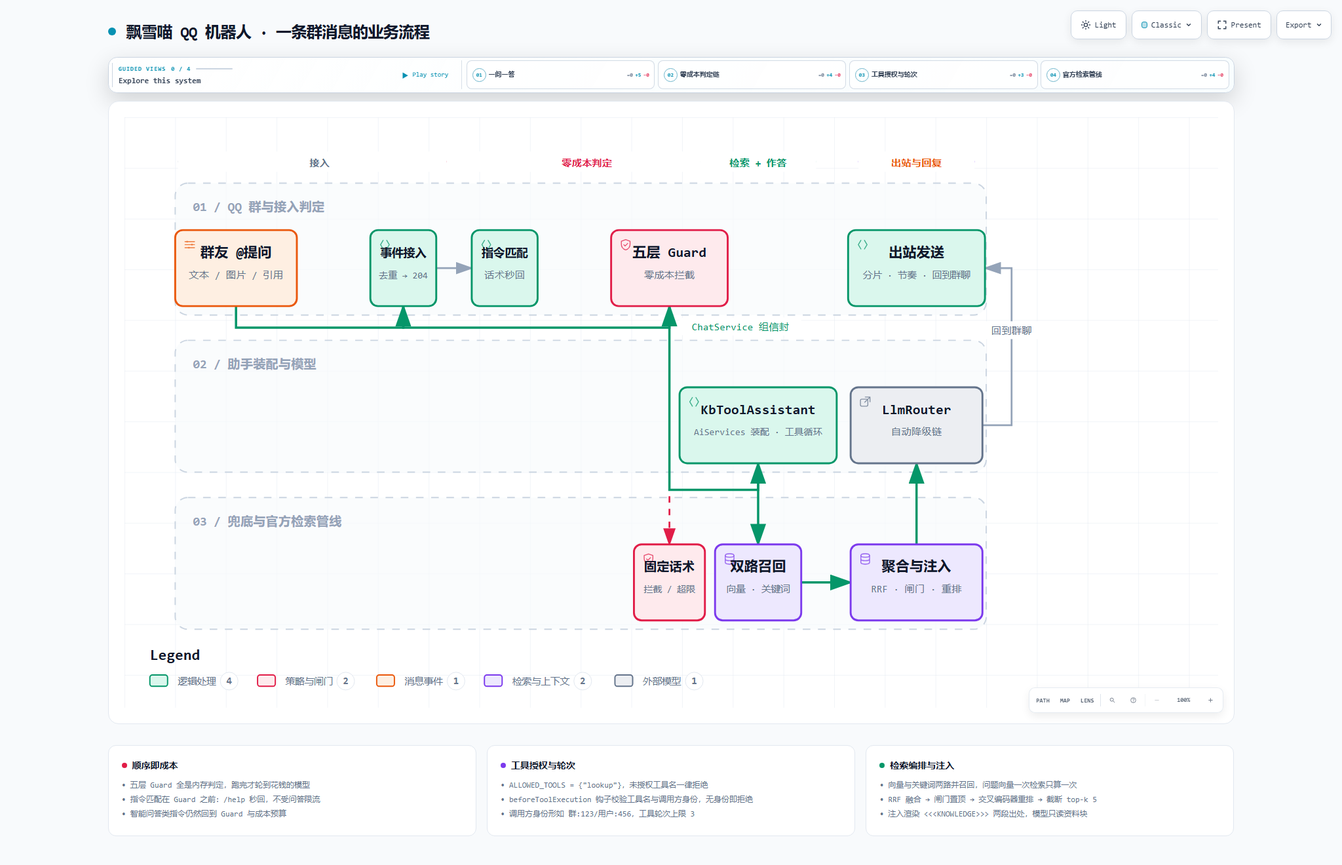
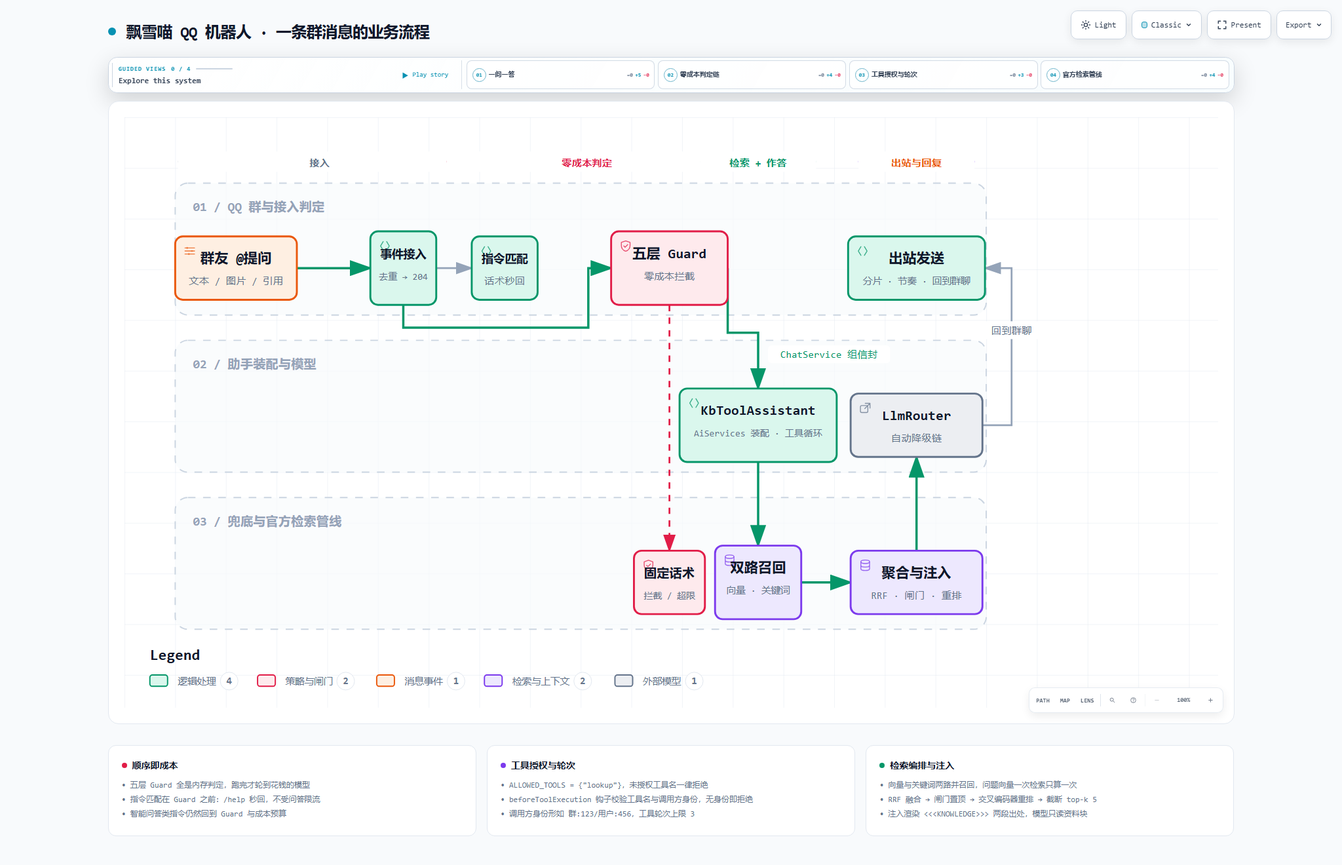
错开流程图锚点，消除箭头黏连并加大行间净空

diff --git a/docs/diagrams/message-workflow.html b/docs/diagrams/message-workflow.html
@@ -4936,137 +4936,137 @@
 
 
         <!-- Edge paths -->
-        <path data-edge-from="event" data-edge-to="ingress" data-edge-key="0" data-composition-points="88,149;88,166;220,166;220,149" d="M 88 149 L 88 166 L 220 166 L 220 149" class="a-emphasis" stroke-width="1.8" marker-end="url(#arrowhead-emphasis)"/>
+        <path data-edge-from="event" data-edge-to="ingress" data-edge-key="0" data-composition-points="136,119;194,119" d="M 136 119 L 194 119" class="a-emphasis" stroke-width="1.8" marker-end="url(#arrowhead-emphasis)"/>
         <path data-edge-from="ingress" data-edge-to="command" data-edge-key="1" data-composition-points="246,119;274,119" d="M 246 119 L 274 119" class="a-default" stroke-width="1.4" marker-end="url(#arrowhead)"/>
-        <path data-edge-from="ingress" data-edge-to="guard" data-edge-key="2" data-composition-points="220,149;220,166;430,166;430,149" d="M 220 149 L 220 166 L 430 166 L 430 149" class="a-emphasis" stroke-width="1.8" marker-end="url(#arrowhead-emphasis)"/>
-        <path data-edge-from="guard" data-edge-to="fixreply" data-edge-key="3" data-composition-points="430,149;430,337" d="M 430 149 L 430 337" class="a-security" stroke-width="1.4" marker-end="url(#arrowhead-security)"/>
-        <path data-edge-from="guard" data-edge-to="assistant" data-edge-label="ChatService 组信封" data-edge-key="4" data-composition-points="430,149;430,294;500,294;500,273" d="M 430 149 L 430 294 L 500 294 L 500 273" class="a-emphasis" stroke-width="1.8" marker-end="url(#arrowhead-emphasis)"/>
-        <path data-edge-from="assistant" data-edge-to="recall" data-edge-key="5" data-composition-points="500,273;500,337" d="M 500 273 L 500 337" class="a-emphasis" stroke-width="1.8" marker-end="url(#arrowhead-emphasis)"/>
+        <path data-edge-from="ingress" data-edge-to="guard" data-edge-key="2" data-composition-points="220,148;220,166;366,166;366,119;384,119" d="M 220 148 L 220 166 L 366 166 L 366 119 L 384 119" class="a-emphasis" stroke-width="1.8" marker-end="url(#arrowhead-emphasis)"/>
+        <path data-edge-from="guard" data-edge-to="fixreply" data-edge-key="3" data-composition-points="430,148;430,342" d="M 430 148 L 430 342" class="a-security" stroke-width="1.4" marker-end="url(#arrowhead-security)"/>
+        <path data-edge-from="guard" data-edge-to="assistant" data-edge-label="ChatService 组信封" data-edge-key="4" data-composition-points="476,119;476,170;500,170;500,214" d="M 476 119 L 476 170 L 500 170 L 500 214" class="a-emphasis" stroke-width="1.8" marker-end="url(#arrowhead-emphasis)"/>
+        <path data-edge-from="assistant" data-edge-to="recall" data-edge-key="5" data-composition-points="500,272;500,338" d="M 500 272 L 500 338" class="a-emphasis" stroke-width="1.8" marker-end="url(#arrowhead-emphasis)"/>
         <path data-edge-from="recall" data-edge-to="rank" data-edge-key="6" data-composition-points="534,367;573,367" d="M 534 367 L 573 367" class="a-emphasis" stroke-width="1.8" marker-end="url(#arrowhead-emphasis)"/>
-        <path data-edge-from="rank" data-edge-to="model" data-edge-key="7" data-composition-points="625,337;625,290;625,290;625,273" d="M 625 337 L 625 290 L 625 290 L 625 273" class="a-emphasis" stroke-width="1.8" marker-end="url(#arrowhead-emphasis)"/>
+        <path data-edge-from="rank" data-edge-to="model" data-edge-key="7" data-composition-points="625,342;625,290;625,290;625,268" d="M 625 342 L 625 290 L 625 290 L 625 268" class="a-emphasis" stroke-width="1.8" marker-end="url(#arrowhead-emphasis)"/>
         <path data-edge-from="model" data-edge-to="outbound" data-edge-label="回到群聊" data-edge-key="8" data-composition-points="677,243;700,243;700,119;679,119" d="M 677 243 L 700 243 L 700 119 L 679 119" class="a-default" stroke-width="1.4" marker-end="url(#arrowhead)"/>
 
         <!-- Nodes -->
         <g id="node-event" data-node-id="event" data-node-label="群友 @提问" tabindex="0" role="button" aria-label="Focus 群友 @提问, 文本 / 图片 / 引用, QQ 群与接入判定 › 接入" aria-pressed="false" data-node-kind="messagebus" data-node-sublabel="文本 / 图片 / 引用" data-node-context="QQ 群与接入判定 › 接入">
           <title>群友 @提问 · 文本 / 图片 / 引用 · QQ 群与接入判定 › 接入</title>
-          <rect x="40" y="89" width="96" height="60" rx="6" class="c-mask"/>
-          <rect x="40" y="89" width="96" height="60" rx="6" class="c-messagebus" stroke-width="1.5"/>
-          <g aria-hidden="true" data-semantic-sigil="messagebus" class="semantic-sigil s-messagebus" transform="translate(46 95) scale(0.6875)">
+          <rect x="40" y="94" width="96" height="50" rx="6" class="c-mask"/>
+          <rect x="40" y="94" width="96" height="50" rx="6" class="c-messagebus" stroke-width="1.5"/>
+          <g aria-hidden="true" data-semantic-sigil="messagebus" class="semantic-sigil s-messagebus" transform="translate(46 100) scale(0.6875)">
             <path d="M2.5 4.5h11M2.5 8h11M2.5 11.5h11"/>
             <circle cx="5" cy="4.5" r="1" class="sigil-fill"/>
             <circle cx="10.5" cy="8" r="1" class="sigil-fill"/>
             <circle cx="7" cy="11.5" r="1" class="sigil-fill"/>
           </g>
-          <text data-detail-anchor x="88" y="110" class="t-primary" font-size="11" font-weight="600" text-anchor="middle">群友 @提问</text>
-          <text data-detail="context" x="88" y="127" class="t-muted" font-size="8" text-anchor="middle">文本 / 图片 / 引用</text>
+          <text data-detail-anchor x="88" y="115" class="t-primary" font-size="11" font-weight="600" text-anchor="middle">群友 @提问</text>
+          <text data-detail="context" x="88" y="132" class="t-muted" font-size="8" text-anchor="middle">文本 / 图片 / 引用</text>
         </g>
 
         <g id="node-outbound" data-node-id="outbound" data-node-label="出站发送" tabindex="0" role="button" aria-label="Focus 出站发送, 分片 · 节奏 · 回到群聊, QQ 群与接入判定 › 出站与回复" aria-pressed="false" data-node-kind="backend" data-node-sublabel="分片 · 节奏 · 回到群聊" data-node-context="QQ 群与接入判定 › 出站与回复">
           <title>出站发送 · 分片 · 节奏 · 回到群聊 · QQ 群与接入判定 › 出站与回复</title>
-          <rect x="571" y="89" width="108" height="60" rx="6" class="c-mask"/>
-          <rect x="571" y="89" width="108" height="60" rx="6" class="c-backend" stroke-width="1.5"/>
-          <g aria-hidden="true" data-semantic-sigil="backend" class="semantic-sigil s-backend" transform="translate(577 95) scale(0.6875)">
+          <rect x="571" y="94" width="108" height="50" rx="6" class="c-mask"/>
+          <rect x="571" y="94" width="108" height="50" rx="6" class="c-backend" stroke-width="1.5"/>
+          <g aria-hidden="true" data-semantic-sigil="backend" class="semantic-sigil s-backend" transform="translate(577 100) scale(0.6875)">
             <path d="M6 3 3 8l3 5M10 3l3 5-3 5"/>
           </g>
-          <text data-detail-anchor x="625" y="110" class="t-primary" font-size="11" font-weight="600" text-anchor="middle">出站发送</text>
-          <text data-detail="context" x="625" y="127" class="t-muted" font-size="7.5" text-anchor="middle">分片 · 节奏 · 回到群聊</text>
+          <text data-detail-anchor x="625" y="115" class="t-primary" font-size="11" font-weight="600" text-anchor="middle">出站发送</text>
+          <text data-detail="context" x="625" y="132" class="t-muted" font-size="7.5" text-anchor="middle">分片 · 节奏 · 回到群聊</text>
         </g>
 
         <g id="node-ingress" data-node-id="ingress" data-node-label="事件接入" tabindex="0" role="button" aria-label="Focus 事件接入, 去重 → 204, QQ 群与接入判定 › 接入" aria-pressed="false" data-node-kind="backend" data-node-sublabel="去重 → 204" data-node-tag="超 20s 丢弃" data-node-context="QQ 群与接入判定 › 接入">
           <title>事件接入 · 去重 → 204 · QQ 群与接入判定 › 接入 · 超 20s 丢弃</title>
-          <rect x="194" y="89" width="52" height="60" rx="6" class="c-mask"/>
-          <rect x="194" y="89" width="52" height="60" rx="6" class="c-backend" stroke-width="1.5"/>
-          <g aria-hidden="true" data-semantic-sigil="backend" class="semantic-sigil s-backend" transform="translate(200 95) scale(0.6875)">
+          <rect x="194" y="90" width="52" height="58" rx="6" class="c-mask"/>
+          <rect x="194" y="90" width="52" height="58" rx="6" class="c-backend" stroke-width="1.5"/>
+          <g aria-hidden="true" data-semantic-sigil="backend" class="semantic-sigil s-backend" transform="translate(200 96) scale(0.6875)">
             <path d="M6 3 3 8l3 5M10 3l3 5-3 5"/>
           </g>
-          <text data-detail-anchor x="220" y="110" class="t-primary" font-size="9.1" font-weight="600" text-anchor="middle">事件接入</text>
-          <text data-detail="context" x="220" y="127" class="t-muted" font-size="7.3" text-anchor="middle">去重 → 204</text>
-        <text data-detail="fine" x="220" y="137" class="t-backend" font-size="6.6" text-anchor="middle">超 20s 丢弃</text>
+          <text data-detail-anchor x="220" y="111" class="t-primary" font-size="9.1" font-weight="600" text-anchor="middle">事件接入</text>
+          <text data-detail="context" x="220" y="128" class="t-muted" font-size="7.3" text-anchor="middle">去重 → 204</text>
+        <text data-detail="fine" x="220" y="136" class="t-backend" font-size="6.6" text-anchor="middle">超 20s 丢弃</text>
         </g>
 
         <g id="node-command" data-node-id="command" data-node-label="指令匹配" tabindex="0" role="button" aria-label="Focus 指令匹配, 话术秒回, QQ 群与接入判定 › 零成本判定" aria-pressed="false" data-node-kind="backend" data-node-sublabel="话术秒回" data-node-context="QQ 群与接入判定 › 零成本判定">
           <title>指令匹配 · 话术秒回 · QQ 群与接入判定 › 零成本判定</title>
-          <rect x="274" y="89" width="52" height="60" rx="6" class="c-mask"/>
-          <rect x="274" y="89" width="52" height="60" rx="6" class="c-backend" stroke-width="1.5"/>
-          <g aria-hidden="true" data-semantic-sigil="backend" class="semantic-sigil s-backend" transform="translate(280 95) scale(0.6875)">
+          <rect x="274" y="94" width="52" height="50" rx="6" class="c-mask"/>
+          <rect x="274" y="94" width="52" height="50" rx="6" class="c-backend" stroke-width="1.5"/>
+          <g aria-hidden="true" data-semantic-sigil="backend" class="semantic-sigil s-backend" transform="translate(280 100) scale(0.6875)">
             <path d="M6 3 3 8l3 5M10 3l3 5-3 5"/>
           </g>
-          <text data-detail-anchor x="300" y="110" class="t-primary" font-size="9.1" font-weight="600" text-anchor="middle">指令匹配</text>
-          <text data-detail="context" x="300" y="127" class="t-muted" font-size="8" text-anchor="middle">话术秒回</text>
+          <text data-detail-anchor x="300" y="115" class="t-primary" font-size="9.1" font-weight="600" text-anchor="middle">指令匹配</text>
+          <text data-detail="context" x="300" y="132" class="t-muted" font-size="8" text-anchor="middle">话术秒回</text>
         </g>
 
         <g id="node-guard" data-node-id="guard" data-node-label="五层 Guard" tabindex="0" role="button" aria-label="Focus 五层 Guard, 零成本拦截, QQ 群与接入判定 › 零成本判定" aria-pressed="false" data-node-kind="security" data-node-sublabel="零成本拦截" data-node-tag="顺序固定" data-node-context="QQ 群与接入判定 › 零成本判定">
           <title>五层 Guard · 零成本拦截 · QQ 群与接入判定 › 零成本判定 · 顺序固定</title>
-          <rect x="384" y="89" width="92" height="60" rx="6" class="c-mask"/>
-          <rect x="384" y="89" width="92" height="60" rx="6" class="c-security" stroke-width="1.5"/>
-          <g aria-hidden="true" data-semantic-sigil="security" class="semantic-sigil s-security" transform="translate(390 95) scale(0.6875)">
+          <rect x="384" y="90" width="92" height="58" rx="6" class="c-mask"/>
+          <rect x="384" y="90" width="92" height="58" rx="6" class="c-security" stroke-width="1.5"/>
+          <g aria-hidden="true" data-semantic-sigil="security" class="semantic-sigil s-security" transform="translate(390 96) scale(0.6875)">
             <path d="M8 2.2 13 4v3.5c0 3.1-1.8 5.4-5 6.5-3.2-1.1-5-3.4-5-6.5V4Z"/>
             <path d="m5.8 8 1.5 1.5 3-3"/>
           </g>
-          <text data-detail-anchor x="430" y="110" class="t-primary" font-size="11" font-weight="600" text-anchor="middle">五层 Guard</text>
-          <text data-detail="context" x="430" y="127" class="t-muted" font-size="8" text-anchor="middle">零成本拦截</text>
-        <text data-detail="fine" x="430" y="137" class="t-security" font-size="7" text-anchor="middle">顺序固定</text>
+          <text data-detail-anchor x="430" y="111" class="t-primary" font-size="11" font-weight="600" text-anchor="middle">五层 Guard</text>
+          <text data-detail="context" x="430" y="128" class="t-muted" font-size="8" text-anchor="middle">零成本拦截</text>
+        <text data-detail="fine" x="430" y="136" class="t-security" font-size="7" text-anchor="middle">顺序固定</text>
         </g>
 
         <g id="node-fixreply" data-node-id="fixreply" data-node-label="固定话术" tabindex="0" role="button" aria-label="Focus 固定话术, 拦截 / 超限, 兜底与官方检索管线 › 零成本判定" aria-pressed="false" data-node-kind="security" data-node-sublabel="拦截 / 超限" data-node-context="兜底与官方检索管线 › 零成本判定">
           <title>固定话术 · 拦截 / 超限 · 兜底与官方检索管线 › 零成本判定</title>
-          <rect x="402" y="337" width="56" height="60" rx="6" class="c-mask"/>
-          <rect x="402" y="337" width="56" height="60" rx="6" class="c-security" stroke-width="1.5"/>
-          <g aria-hidden="true" data-semantic-sigil="security" class="semantic-sigil s-security" transform="translate(408 343) scale(0.6875)">
+          <rect x="402" y="342" width="56" height="50" rx="6" class="c-mask"/>
+          <rect x="402" y="342" width="56" height="50" rx="6" class="c-security" stroke-width="1.5"/>
+          <g aria-hidden="true" data-semantic-sigil="security" class="semantic-sigil s-security" transform="translate(408 348) scale(0.6875)">
             <path d="M8 2.2 13 4v3.5c0 3.1-1.8 5.4-5 6.5-3.2-1.1-5-3.4-5-6.5V4Z"/>
             <path d="m5.8 8 1.5 1.5 3-3"/>
           </g>
-          <text data-detail-anchor x="430" y="358" class="t-primary" font-size="10" font-weight="600" text-anchor="middle">固定话术</text>
-          <text data-detail="context" x="430" y="375" class="t-muted" font-size="7.2" text-anchor="middle">拦截 / 超限</text>
+          <text data-detail-anchor x="430" y="363" class="t-primary" font-size="10" font-weight="600" text-anchor="middle">固定话术</text>
+          <text data-detail="context" x="430" y="380" class="t-muted" font-size="7.2" text-anchor="middle">拦截 / 超限</text>
         </g>
 
         <g id="node-assistant" data-node-id="assistant" data-node-label="KbToolAssistant" tabindex="0" role="button" aria-label="Focus KbToolAssistant, AiServices 装配 · 工具循环, 助手装配与模型 › 检索 + 作答" aria-pressed="false" data-node-kind="backend" data-node-sublabel="AiServices 装配 · 工具循环" data-node-tag="轮次上限 3" data-node-context="助手装配与模型 › 检索 + 作答">
           <title>KbToolAssistant · AiServices 装配 · 工具循环 · 助手装配与模型 › 检索 + 作答 · 轮次上限 3</title>
-          <rect x="438" y="213" width="124" height="60" rx="6" class="c-mask"/>
-          <rect x="438" y="213" width="124" height="60" rx="6" class="c-backend" stroke-width="1.5"/>
-          <g aria-hidden="true" data-semantic-sigil="backend" class="semantic-sigil s-backend" transform="translate(444 219) scale(0.6875)">
+          <rect x="438" y="214" width="124" height="58" rx="6" class="c-mask"/>
+          <rect x="438" y="214" width="124" height="58" rx="6" class="c-backend" stroke-width="1.5"/>
+          <g aria-hidden="true" data-semantic-sigil="backend" class="semantic-sigil s-backend" transform="translate(444 220) scale(0.6875)">
             <path d="M6 3 3 8l3 5M10 3l3 5-3 5"/>
           </g>
-          <text data-detail-anchor x="500" y="234" class="t-primary" font-size="11" font-weight="600" text-anchor="middle">KbToolAssistant</text>
-          <text data-detail="context" x="500" y="251" class="t-muted" font-size="7.4" text-anchor="middle">AiServices 装配 · 工具循环</text>
-        <text data-detail="fine" x="500" y="261" class="t-backend" font-size="7" text-anchor="middle">轮次上限 3</text>
+          <text data-detail-anchor x="500" y="235" class="t-primary" font-size="11" font-weight="600" text-anchor="middle">KbToolAssistant</text>
+          <text data-detail="context" x="500" y="252" class="t-muted" font-size="7.4" text-anchor="middle">AiServices 装配 · 工具循环</text>
+        <text data-detail="fine" x="500" y="260" class="t-backend" font-size="7" text-anchor="middle">轮次上限 3</text>
         </g>
 
         <g id="node-model" data-node-id="model" data-node-label="LlmRouter" tabindex="0" role="button" aria-label="Focus LlmRouter, 自动降级链, 助手装配与模型 › 出站与回复" aria-pressed="false" data-node-kind="external" data-node-sublabel="自动降级链" data-node-context="助手装配与模型 › 出站与回复">
           <title>LlmRouter · 自动降级链 · 助手装配与模型 › 出站与回复</title>
-          <rect x="573" y="213" width="104" height="60" rx="6" class="c-mask"/>
-          <rect x="573" y="213" width="104" height="60" rx="6" class="c-external" stroke-width="1.5"/>
-          <g aria-hidden="true" data-semantic-sigil="external" class="semantic-sigil s-external" transform="translate(579 219) scale(0.6875)">
+          <rect x="573" y="218" width="104" height="50" rx="6" class="c-mask"/>
+          <rect x="573" y="218" width="104" height="50" rx="6" class="c-external" stroke-width="1.5"/>
+          <g aria-hidden="true" data-semantic-sigil="external" class="semantic-sigil s-external" transform="translate(579 224) scale(0.6875)">
             <rect x="2.5" y="5" width="8.5" height="8" rx="1.5"/>
             <path d="M8 2.5h5.5V8M13.5 2.5 7.5 8.5"/>
           </g>
-          <text data-detail-anchor x="625" y="234" class="t-primary" font-size="11" font-weight="600" text-anchor="middle">LlmRouter</text>
-          <text data-detail="context" x="625" y="251" class="t-muted" font-size="8" text-anchor="middle">自动降级链</text>
+          <text data-detail-anchor x="625" y="239" class="t-primary" font-size="11" font-weight="600" text-anchor="middle">LlmRouter</text>
+          <text data-detail="context" x="625" y="256" class="t-muted" font-size="8" text-anchor="middle">自动降级链</text>
         </g>
 
         <g id="node-recall" data-node-id="recall" data-node-label="双路召回" tabindex="0" role="button" aria-label="Focus 双路召回, 向量 · 关键词, 兜底与官方检索管线 › 检索 + 作答" aria-pressed="false" data-node-kind="database" data-node-sublabel="向量 · 关键词" data-node-tag="共用一次向量" data-node-context="兜底与官方检索管线 › 检索 + 作答">
           <title>双路召回 · 向量 · 关键词 · 兜底与官方检索管线 › 检索 + 作答 · 共用一次向量</title>
-          <rect x="466" y="337" width="68" height="60" rx="6" class="c-mask"/>
-          <rect x="466" y="337" width="68" height="60" rx="6" class="c-database" stroke-width="1.5"/>
-          <g aria-hidden="true" data-semantic-sigil="database" class="semantic-sigil s-database" transform="translate(472 343) scale(0.6875)">
+          <rect x="466" y="338" width="68" height="58" rx="6" class="c-mask"/>
+          <rect x="466" y="338" width="68" height="58" rx="6" class="c-database" stroke-width="1.5"/>
+          <g aria-hidden="true" data-semantic-sigil="database" class="semantic-sigil s-database" transform="translate(472 344) scale(0.6875)">
             <ellipse cx="8" cy="4" rx="5" ry="2"/>
             <path d="M3 4v8c0 1.1 2.2 2 5 2s5-.9 5-2V4M3 8c0 1.1 2.2 2 5 2s5-.9 5-2"/>
           </g>
-          <text data-detail-anchor x="500" y="358" class="t-primary" font-size="11" font-weight="600" text-anchor="middle">双路召回</text>
-          <text data-detail="context" x="500" y="375" class="t-muted" font-size="7.6" text-anchor="middle">向量 · 关键词</text>
-        <text data-detail="fine" x="500" y="385" class="t-database" font-size="7" text-anchor="middle">共用一次向量</text>
+          <text data-detail-anchor x="500" y="359" class="t-primary" font-size="11" font-weight="600" text-anchor="middle">双路召回</text>
+          <text data-detail="context" x="500" y="376" class="t-muted" font-size="7.6" text-anchor="middle">向量 · 关键词</text>
+        <text data-detail="fine" x="500" y="384" class="t-database" font-size="7" text-anchor="middle">共用一次向量</text>
         </g>
 
         <g id="node-rank" data-node-id="rank" data-node-label="聚合与注入" tabindex="0" role="button" aria-label="Focus 聚合与注入, RRF · 闸门 · 重排, 兜底与官方检索管线 › 出站与回复" aria-pressed="false" data-node-kind="database" data-node-sublabel="RRF · 闸门 · 重排" data-node-context="兜底与官方检索管线 › 出站与回复">
           <title>聚合与注入 · RRF · 闸门 · 重排 · 兜底与官方检索管线 › 出站与回复</title>
-          <rect x="573" y="337" width="104" height="60" rx="6" class="c-mask"/>
-          <rect x="573" y="337" width="104" height="60" rx="6" class="c-database" stroke-width="1.5"/>
-          <g aria-hidden="true" data-semantic-sigil="database" class="semantic-sigil s-database" transform="translate(579 343) scale(0.6875)">
+          <rect x="573" y="342" width="104" height="50" rx="6" class="c-mask"/>
+          <rect x="573" y="342" width="104" height="50" rx="6" class="c-database" stroke-width="1.5"/>
+          <g aria-hidden="true" data-semantic-sigil="database" class="semantic-sigil s-database" transform="translate(579 348) scale(0.6875)">
             <ellipse cx="8" cy="4" rx="5" ry="2"/>
             <path d="M3 4v8c0 1.1 2.2 2 5 2s5-.9 5-2V4M3 8c0 1.1 2.2 2 5 2s5-.9 5-2"/>
           </g>
-          <text data-detail-anchor x="625" y="358" class="t-primary" font-size="11" font-weight="600" text-anchor="middle">聚合与注入</text>
-          <text data-detail="context" x="625" y="375" class="t-muted" font-size="8" text-anchor="middle">RRF · 闸门 · 重排</text>
+          <text data-detail-anchor x="625" y="363" class="t-primary" font-size="11" font-weight="600" text-anchor="middle">聚合与注入</text>
+          <text data-detail="context" x="625" y="380" class="t-muted" font-size="8" text-anchor="middle">RRF · 闸门 · 重排</text>
         </g>
 
         <!-- Edge labels -->
@@ -5075,8 +5075,8 @@
 
 
         <g data-detail="context" data-edge-from="guard" data-edge-to="assistant" data-edge-label="ChatService 组信封" data-edge-key="4">
-          <rect x="437.8" y="158" width="96.39999999999999" height="14" rx="3" class="c-mask"/>
-          <text x="486" y="168" class="t-backend" font-size="8" text-anchor="middle">ChatService 组信封</text>
+          <rect x="507.8" y="180" width="96.39999999999999" height="14" rx="3" class="c-mask"/>
+          <text x="556" y="190" class="t-backend" font-size="8" text-anchor="middle">ChatService 组信封</text>
         </g>
 
 

diff --git a/docs/diagrams/kb-dataflow.html b/docs/diagrams/kb-dataflow.html
@@ -4931,7 +4931,7 @@
         <path data-edge-from="block" data-edge-to="titlevec" data-edge-label="标题向量" data-edge-key="3" data-composition-points="530,186;530,186;530,242;530,242" d="M 530 186 L 530 186 L 530 242 L 530 242" class="a-dashed" stroke-width="1.4" marker-end="url(#arrowhead-dashed)"/>
         <path data-edge-from="termedit" data-edge-to="term" data-edge-label="词条写入" data-edge-key="4" data-composition-points="371,385;474,385" d="M 371 385 L 474 385" class="a-default" stroke-width="1.4" marker-end="url(#arrowhead)"/>
         <path data-edge-from="wikipage" data-edge-to="cleaner" data-edge-label="原始 wikitext" data-edge-key="5" data-composition-points="156,271;259,271" d="M 156 271 L 259 271" class="a-dashed" stroke-width="1.4" marker-end="url(#arrowhead-dashed)"/>
-        <path data-edge-from="cleaner" data-edge-to="block" data-edge-label="清洗后正文" data-edge-key="6" data-composition-points="371,271;422.5,271;422.5,157;474,157" d="M 371 271 L 422.5 271 L 422.5 157 L 474 157" class="a-dashed" stroke-width="1.4" marker-end="url(#arrowhead-dashed)"/>
+        <path data-edge-from="cleaner" data-edge-to="block" data-edge-label="清洗后正文" data-edge-key="6" data-composition-points="315,242;450,242;450,110;530,110;530,128" d="M 315 242 L 450 242 L 450 110 L 530 110 L 530 128" class="a-dashed" stroke-width="1.4" marker-end="url(#arrowhead-dashed)"/>
         <path data-edge-from="block" data-edge-to="vec" data-edge-label="候选块" data-edge-key="7" data-composition-points="586,157;689,157" d="M 586 157 L 689 157" class="a-emphasis" stroke-width="1.8" marker-end="url(#arrowhead-emphasis)"/>
         <path data-edge-from="term" data-edge-to="kw" data-edge-label="术语命中" data-edge-key="8" data-composition-points="586,385;689,385" d="M 586 385 L 689 385" class="a-default" stroke-width="1.4" marker-end="url(#arrowhead)"/>
         <path data-edge-from="titlevec" data-edge-to="agg" data-edge-label="标题闸门" data-edge-key="9" data-composition-points="586,271;689,271" d="M 586 271 L 689 271" class="a-default" stroke-width="1.4" marker-end="url(#arrowhead)"/>
@@ -5160,9 +5160,9 @@
         <text data-detail="fine" x="207.5" y="272" class="t-dim" font-size="7" text-anchor="middle">含模板 / 链接</text>
         </g>
         <g data-detail="context" data-edge-from="cleaner" data-edge-to="block" data-edge-label="清洗后正文" data-edge-key="6">
-          <rect x="392" y="193" width="61" height="27" rx="4" class="c-mask"/>
-          <text x="422.5" y="204" class="t-messagebus" font-size="8" text-anchor="middle">清洗后正文</text>
-        <text data-detail="fine" x="422.5" y="215" class="t-dim" font-size="7" text-anchor="middle">按段落切块</text>
+          <rect x="369.5" y="209" width="61" height="27" rx="4" class="c-mask"/>
+          <text x="400" y="220" class="t-messagebus" font-size="8" text-anchor="middle">清洗后正文</text>
+        <text data-detail="fine" x="400" y="231" class="t-dim" font-size="7" text-anchor="middle">按段落切块</text>
         </g>
         <g data-detail="context" data-edge-from="block" data-edge-to="vec" data-edge-label="候选块" data-edge-key="7">
           <rect x="604.55" y="136" width="65.9" height="27" rx="4" class="c-mask"/>

diff --git a/docs/diagrams/plaza-loop.html b/docs/diagrams/plaza-loop.html
@@ -4938,7 +4938,7 @@
         <path data-edge-from="answers" data-edge-to="vote" data-edge-key="1" data-composition-points="220,275;220,166;300,166;300,155" d="M 220 275 L 220 166 L 300 166 L 300 155" class="a-emphasis" stroke-width="1.8" marker-end="url(#arrowhead-emphasis)"/>
         <path data-edge-from="vote" data-edge-to="allbad" data-edge-label="展示的全被踩" data-edge-key="2" data-composition-points="350,119;380,119" d="M 350 119 L 380 119" class="a-security" stroke-width="1.4" marker-end="url(#arrowhead-security)"/>
         <path data-edge-from="allbad" data-edge-to="asknew" data-edge-label="二级降级" data-edge-key="3" data-composition-points="430,151;430,166;500,166;500,216" d="M 430 151 L 430 166 L 500 166 L 500 216" class="a-emphasis" stroke-width="1.8" marker-end="url(#arrowhead-emphasis)"/>
-        <path data-edge-from="asknew" data-edge-to="help" data-edge-label="同一降级入口" data-edge-key="4" data-composition-points="500,270;500,166;625,166;625,151" d="M 500 270 L 500 166 L 625 166 L 625 151" class="a-emphasis" stroke-width="1.8" marker-end="url(#arrowhead-emphasis)"/>
+        <path data-edge-from="asknew" data-edge-to="help" data-edge-label="同一降级入口" data-edge-key="4" data-composition-points="500,270;500,119;556,119;572,119" d="M 500 270 L 500 119 L 556 119 L 572 119" class="a-emphasis" stroke-width="1.8" marker-end="url(#arrowhead-emphasis)"/>
         <path data-edge-from="help" data-edge-to="confirm" data-edge-label="复制到群里 @" data-edge-key="5" data-composition-points="625,151;625,228;625,228;625,331" d="M 625 151 L 625 228 L 625 228 L 625 331" class="a-default" stroke-width="1.4" marker-end="url(#arrowhead)"/>
 
         <!-- Nodes -->
@@ -5042,8 +5042,8 @@
           <text x="465" y="170" class="t-backend" font-size="8" text-anchor="middle">二级降级</text>
         </g>
         <g data-detail="context" data-edge-from="asknew" data-edge-to="help" data-edge-label="同一降级入口" data-edge-key="4">
-          <rect x="528.7" y="160" width="67.6" height="14" rx="3" class="c-mask"/>
-          <text x="562.5" y="170" class="t-backend" font-size="8" text-anchor="middle">同一降级入口</text>
+          <rect x="494.2" y="113" width="67.6" height="14" rx="3" class="c-mask"/>
+          <text x="528" y="123" class="t-backend" font-size="8" text-anchor="middle">同一降级入口</text>
         </g>
         <g data-detail="context" data-edge-from="help" data-edge-to="confirm" data-edge-label="复制到群里 @" data-edge-key="5">
           <rect x="591.2" y="208" width="67.6" height="14" rx="3" class="c-mask"/>
